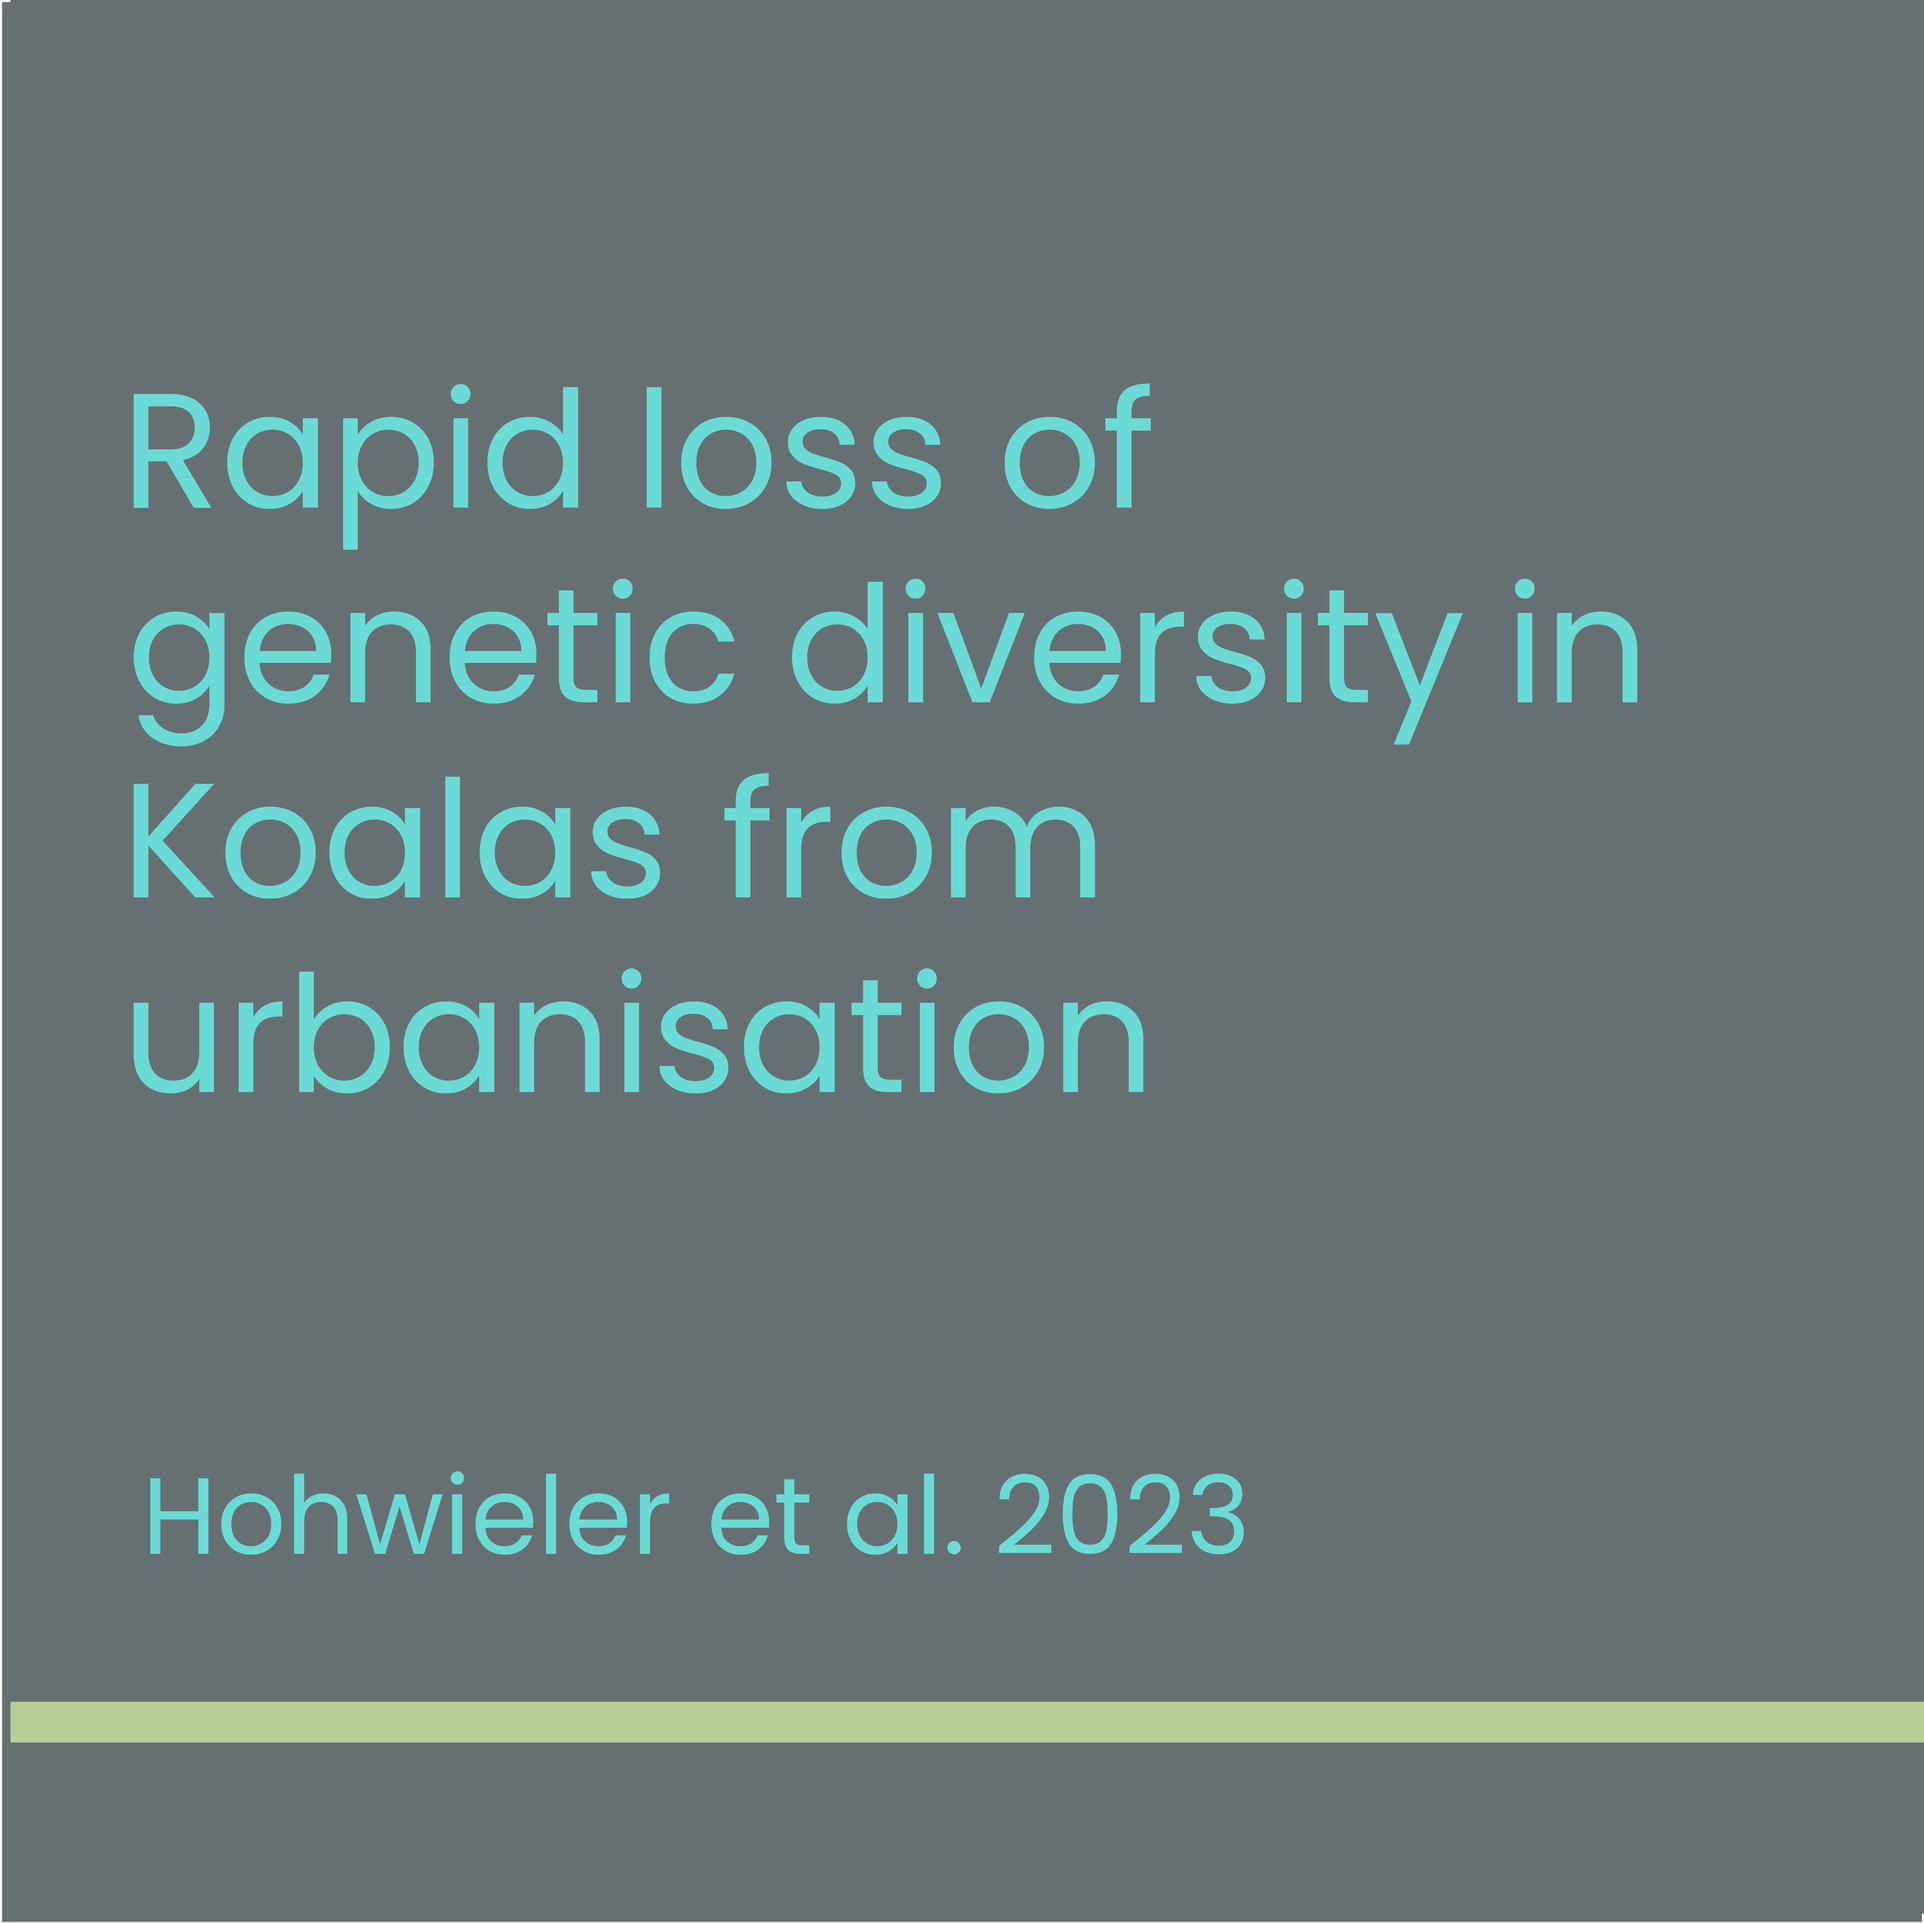
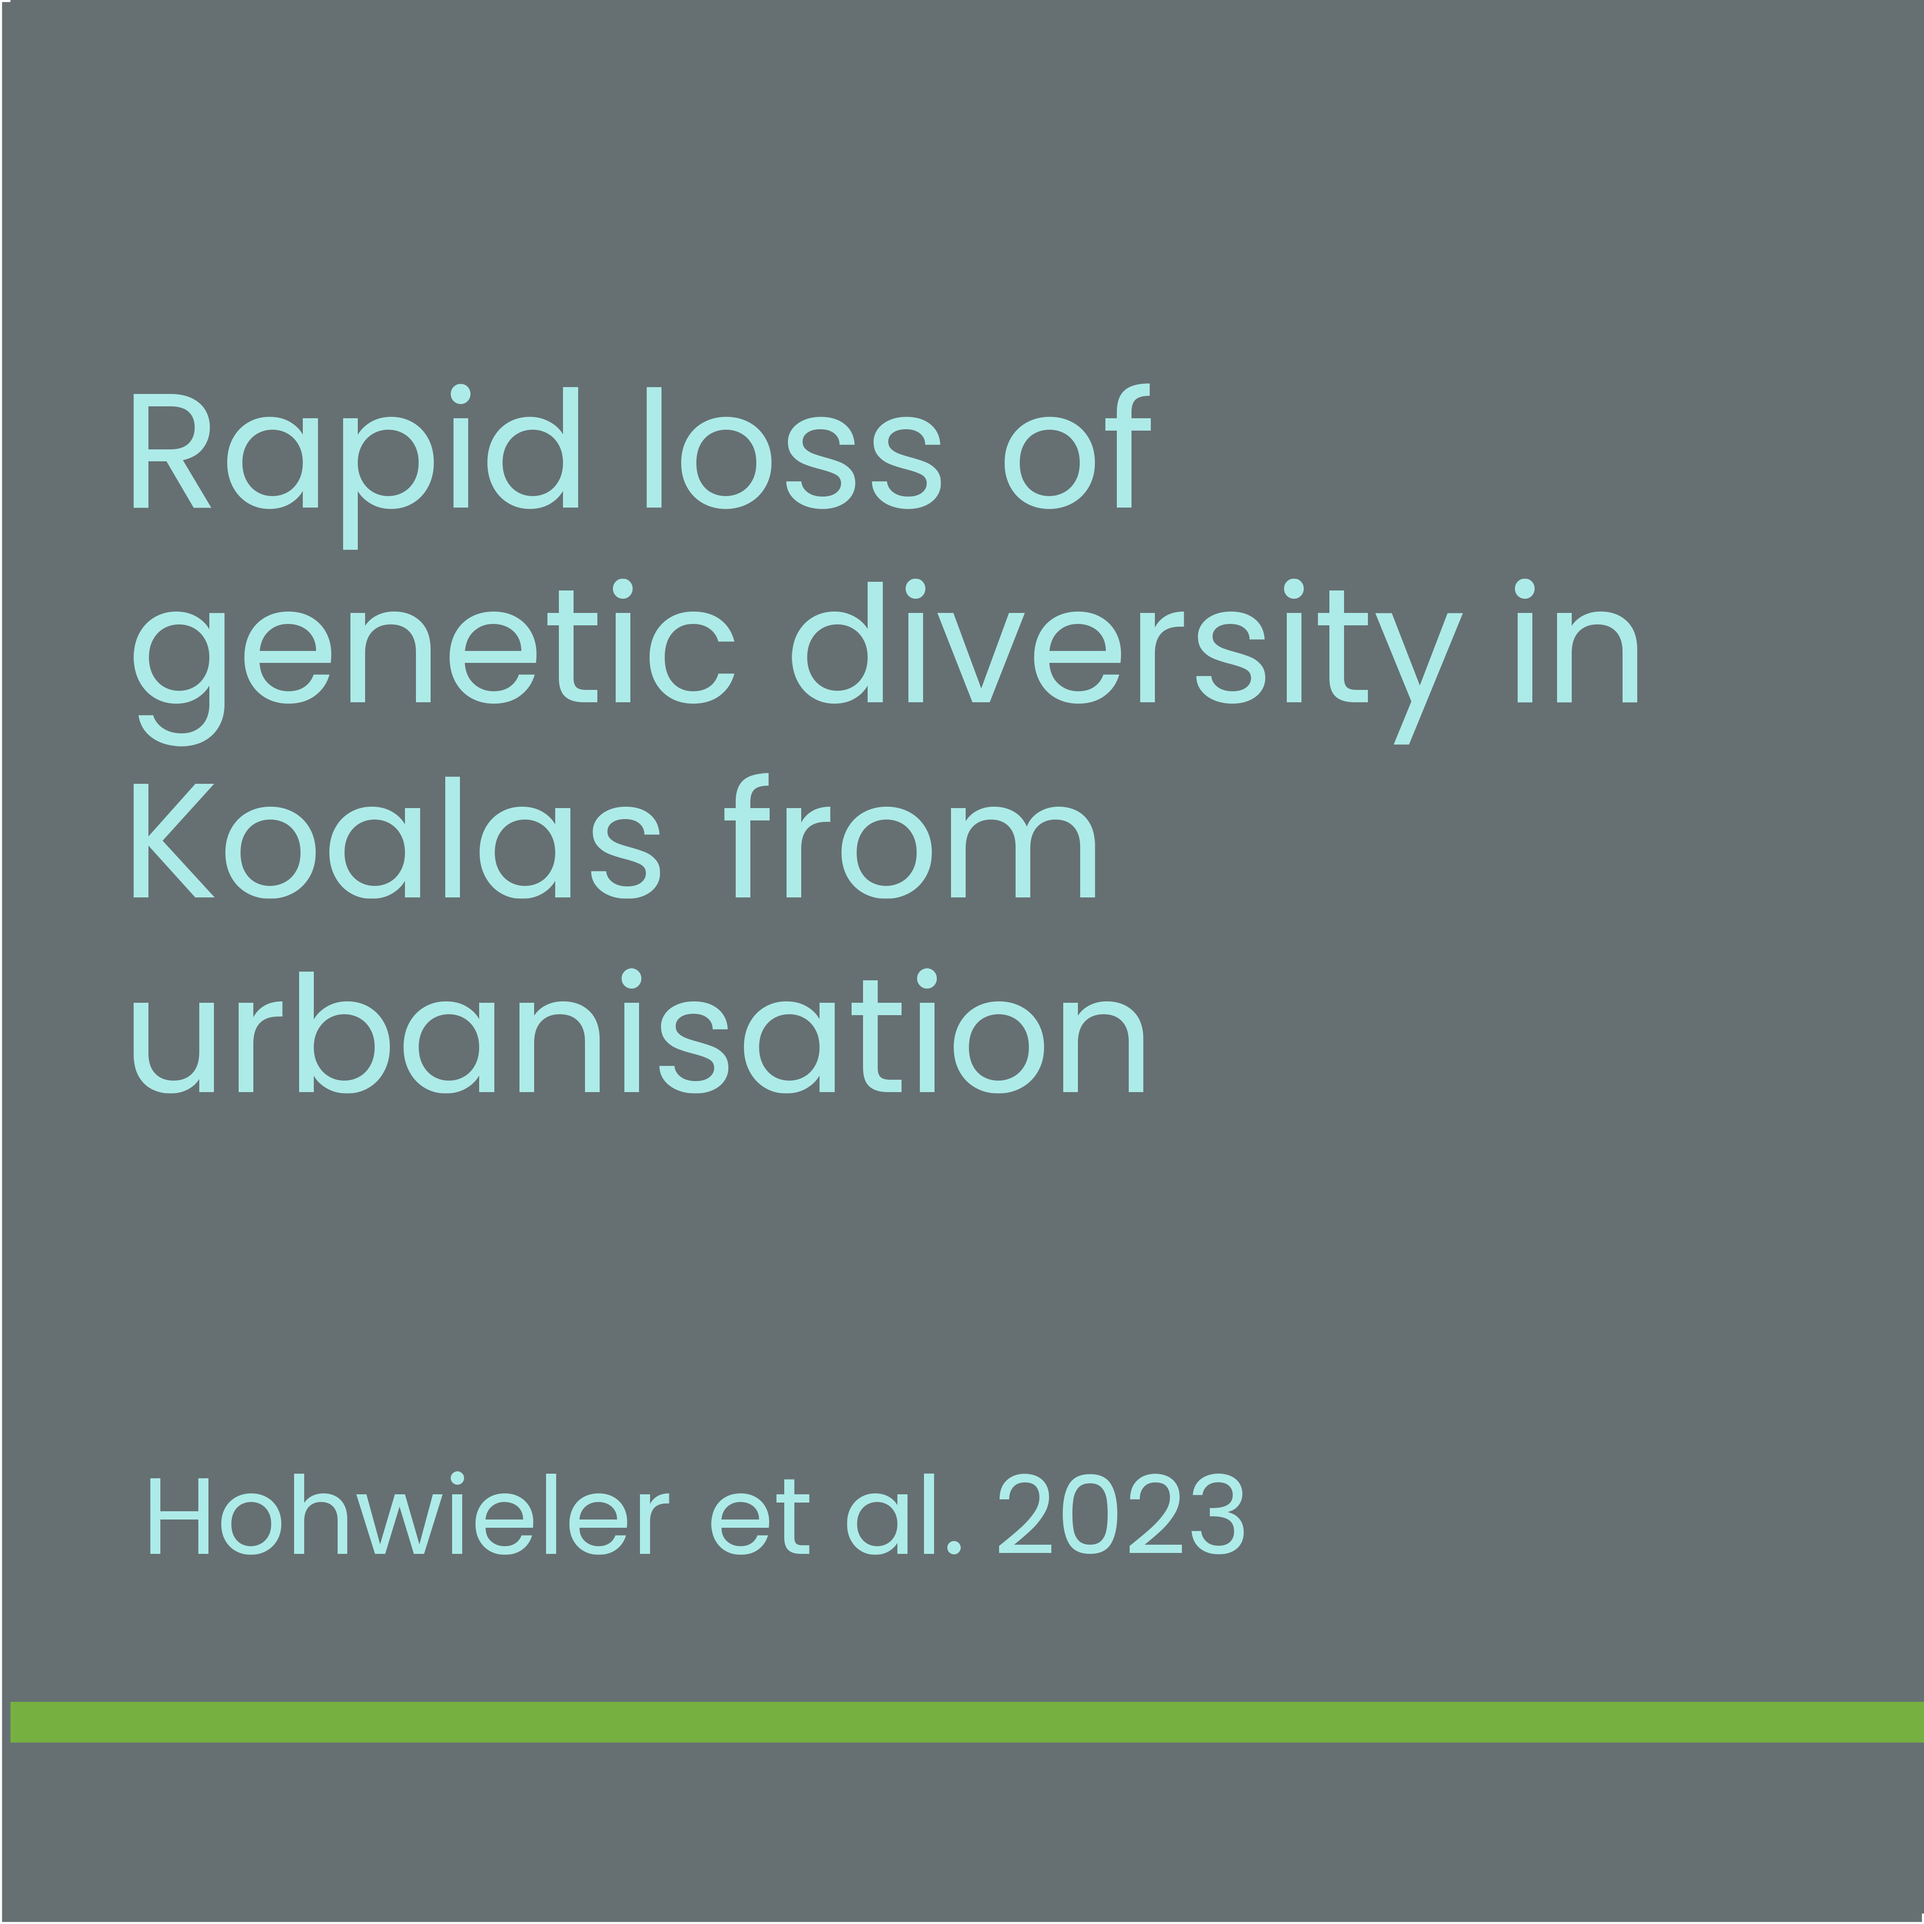
Edit research highlight papers
* Edited summary text
* Update thumbnail colours
* Fix circle image
* Add "edited by" names to papers
* Minor image fixes

diff --git a/theme.css b/theme.css
@@ -439,6 +439,10 @@ img.rounded {
   margin-left: 50px;
 }
 
+.col-image {
+  width: 80%;
+}
+
 
 /* Display the columns below each other instead of side by side on small screens */
 
@@ -456,6 +460,10 @@ img.rounded {
     margin-left: auto;
     margin-right: auto;
   }
-}
 
+  .col-image {
+    display: flex;
+    justify-content: center;
+  }
+}
 

diff --git a/index.css b/index.css
@@ -141,14 +141,6 @@
   border-radius: 30px;
 }
 
-.value-feature-2 {
-  background: #DBD7D2
-}
-
-.value-feature-3 {
-  background: #DBD7D2;
-}
-
 .value-text {
   color: #222322;
 }
